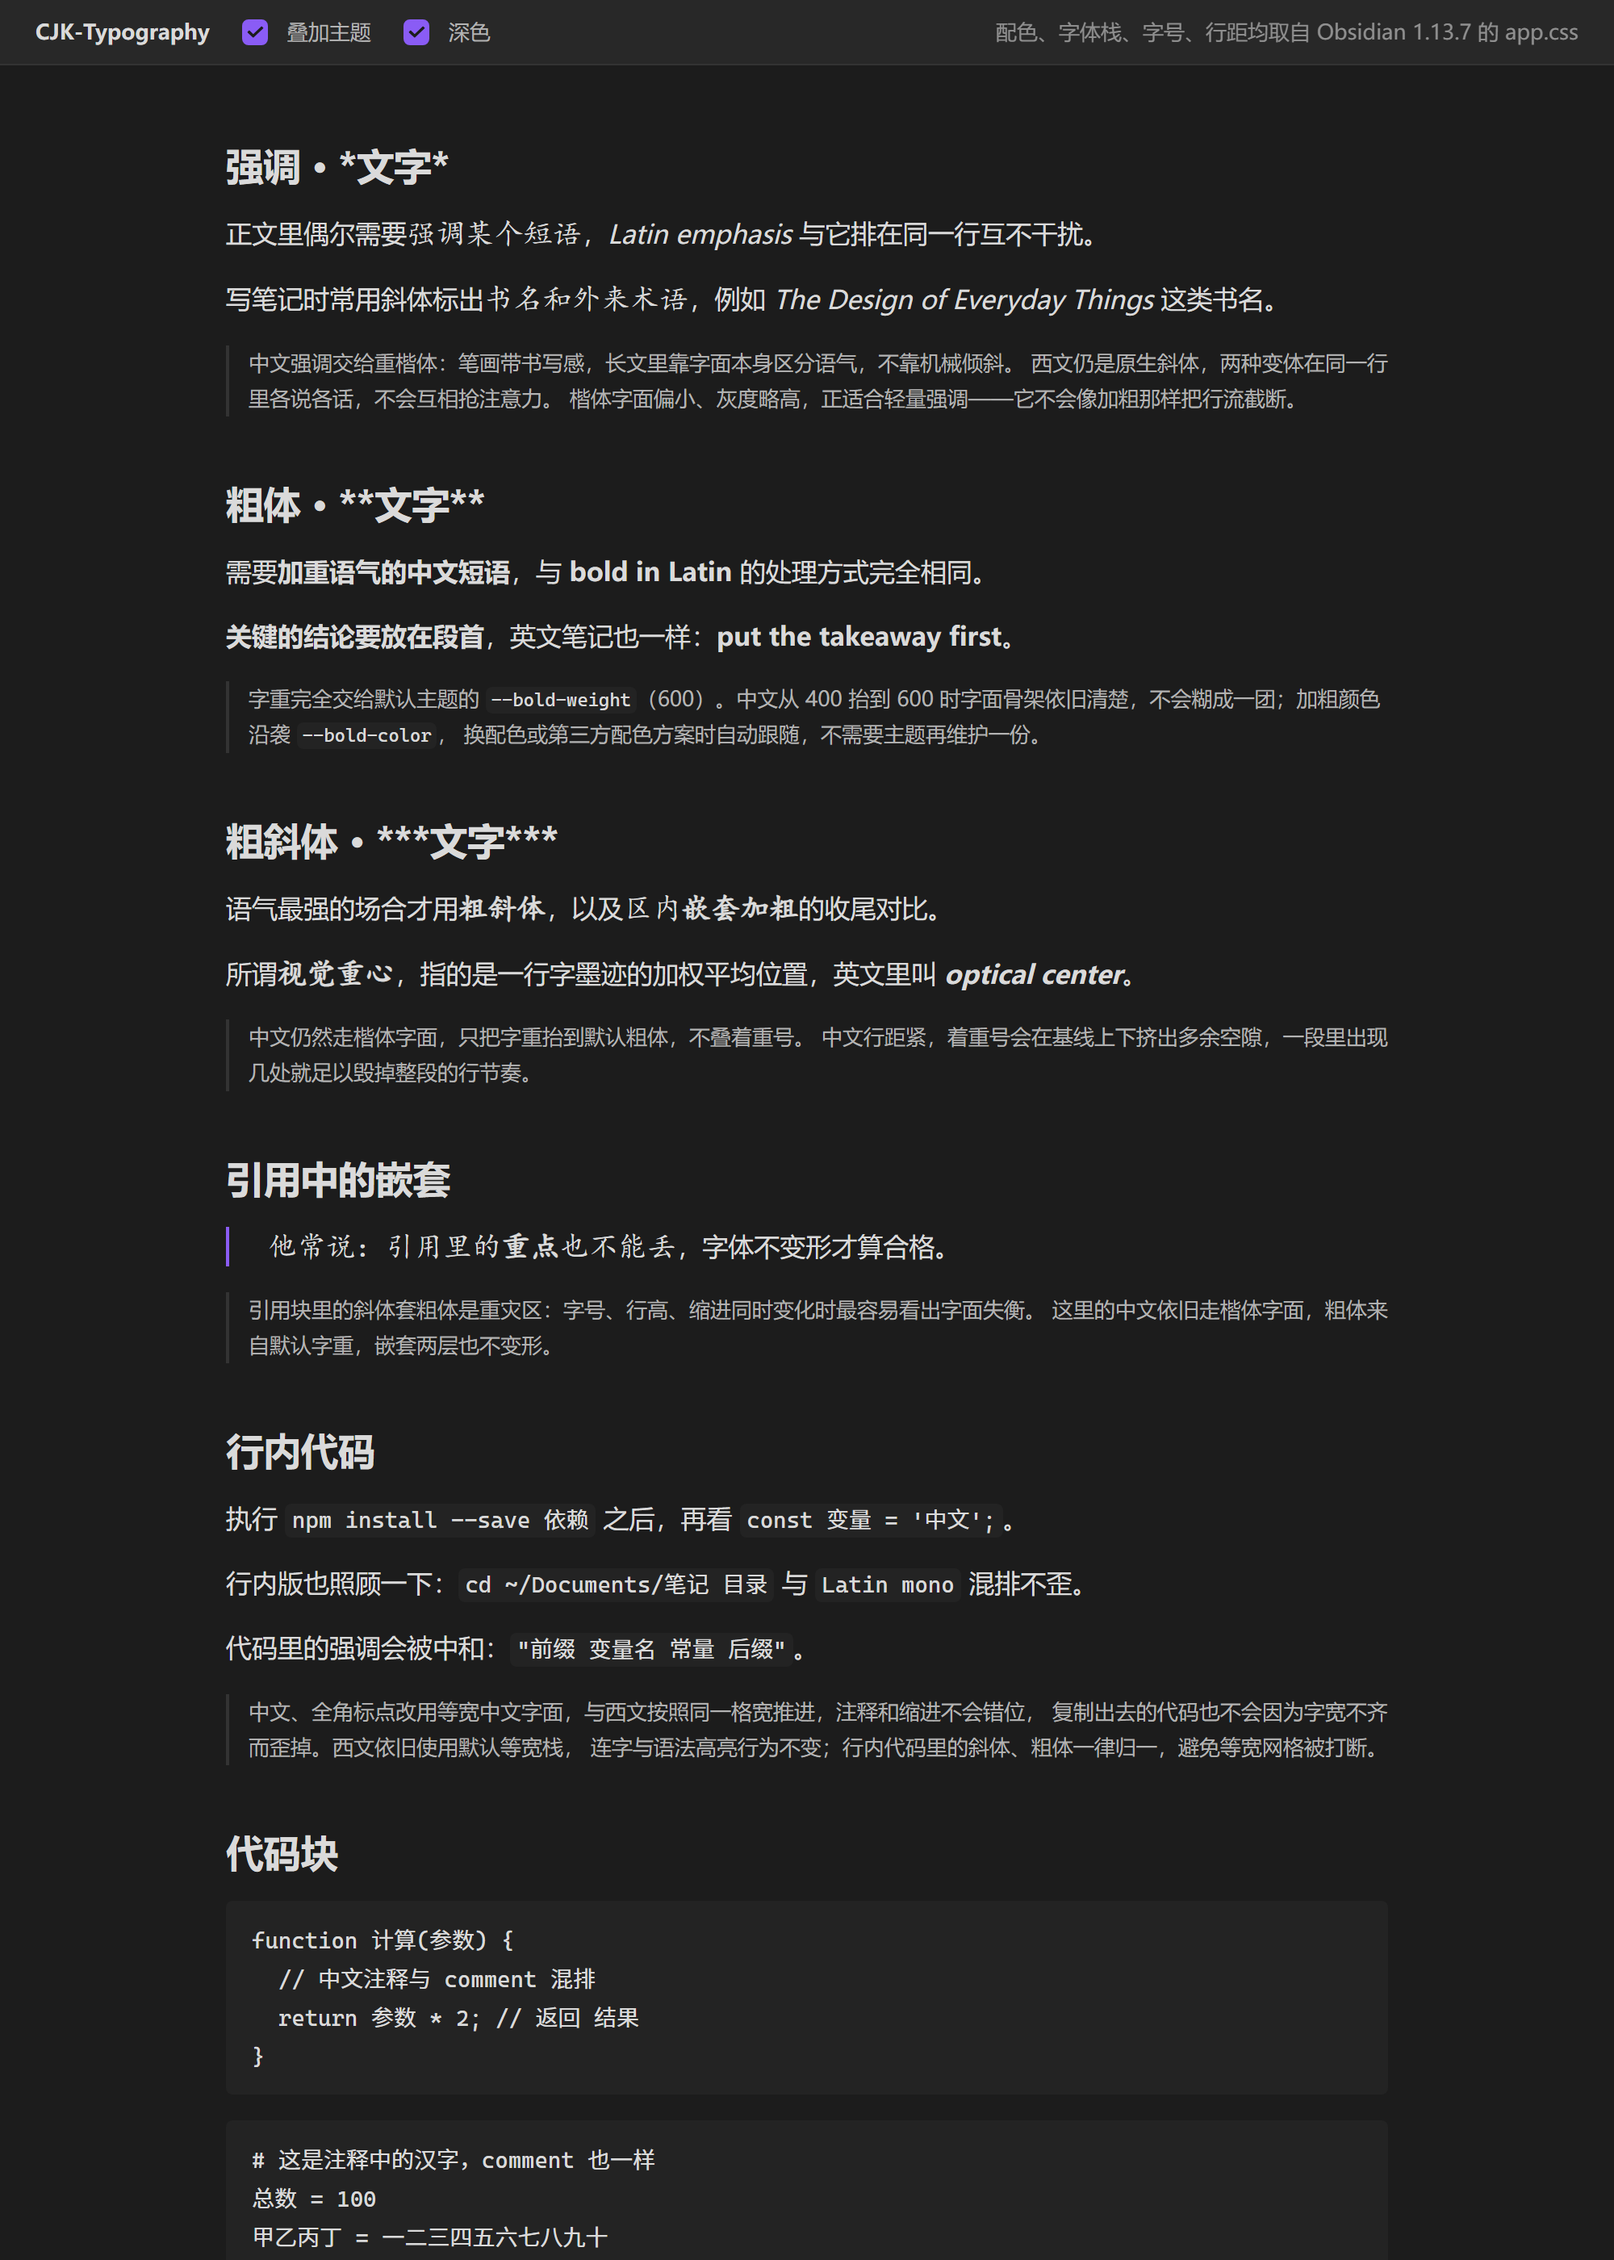
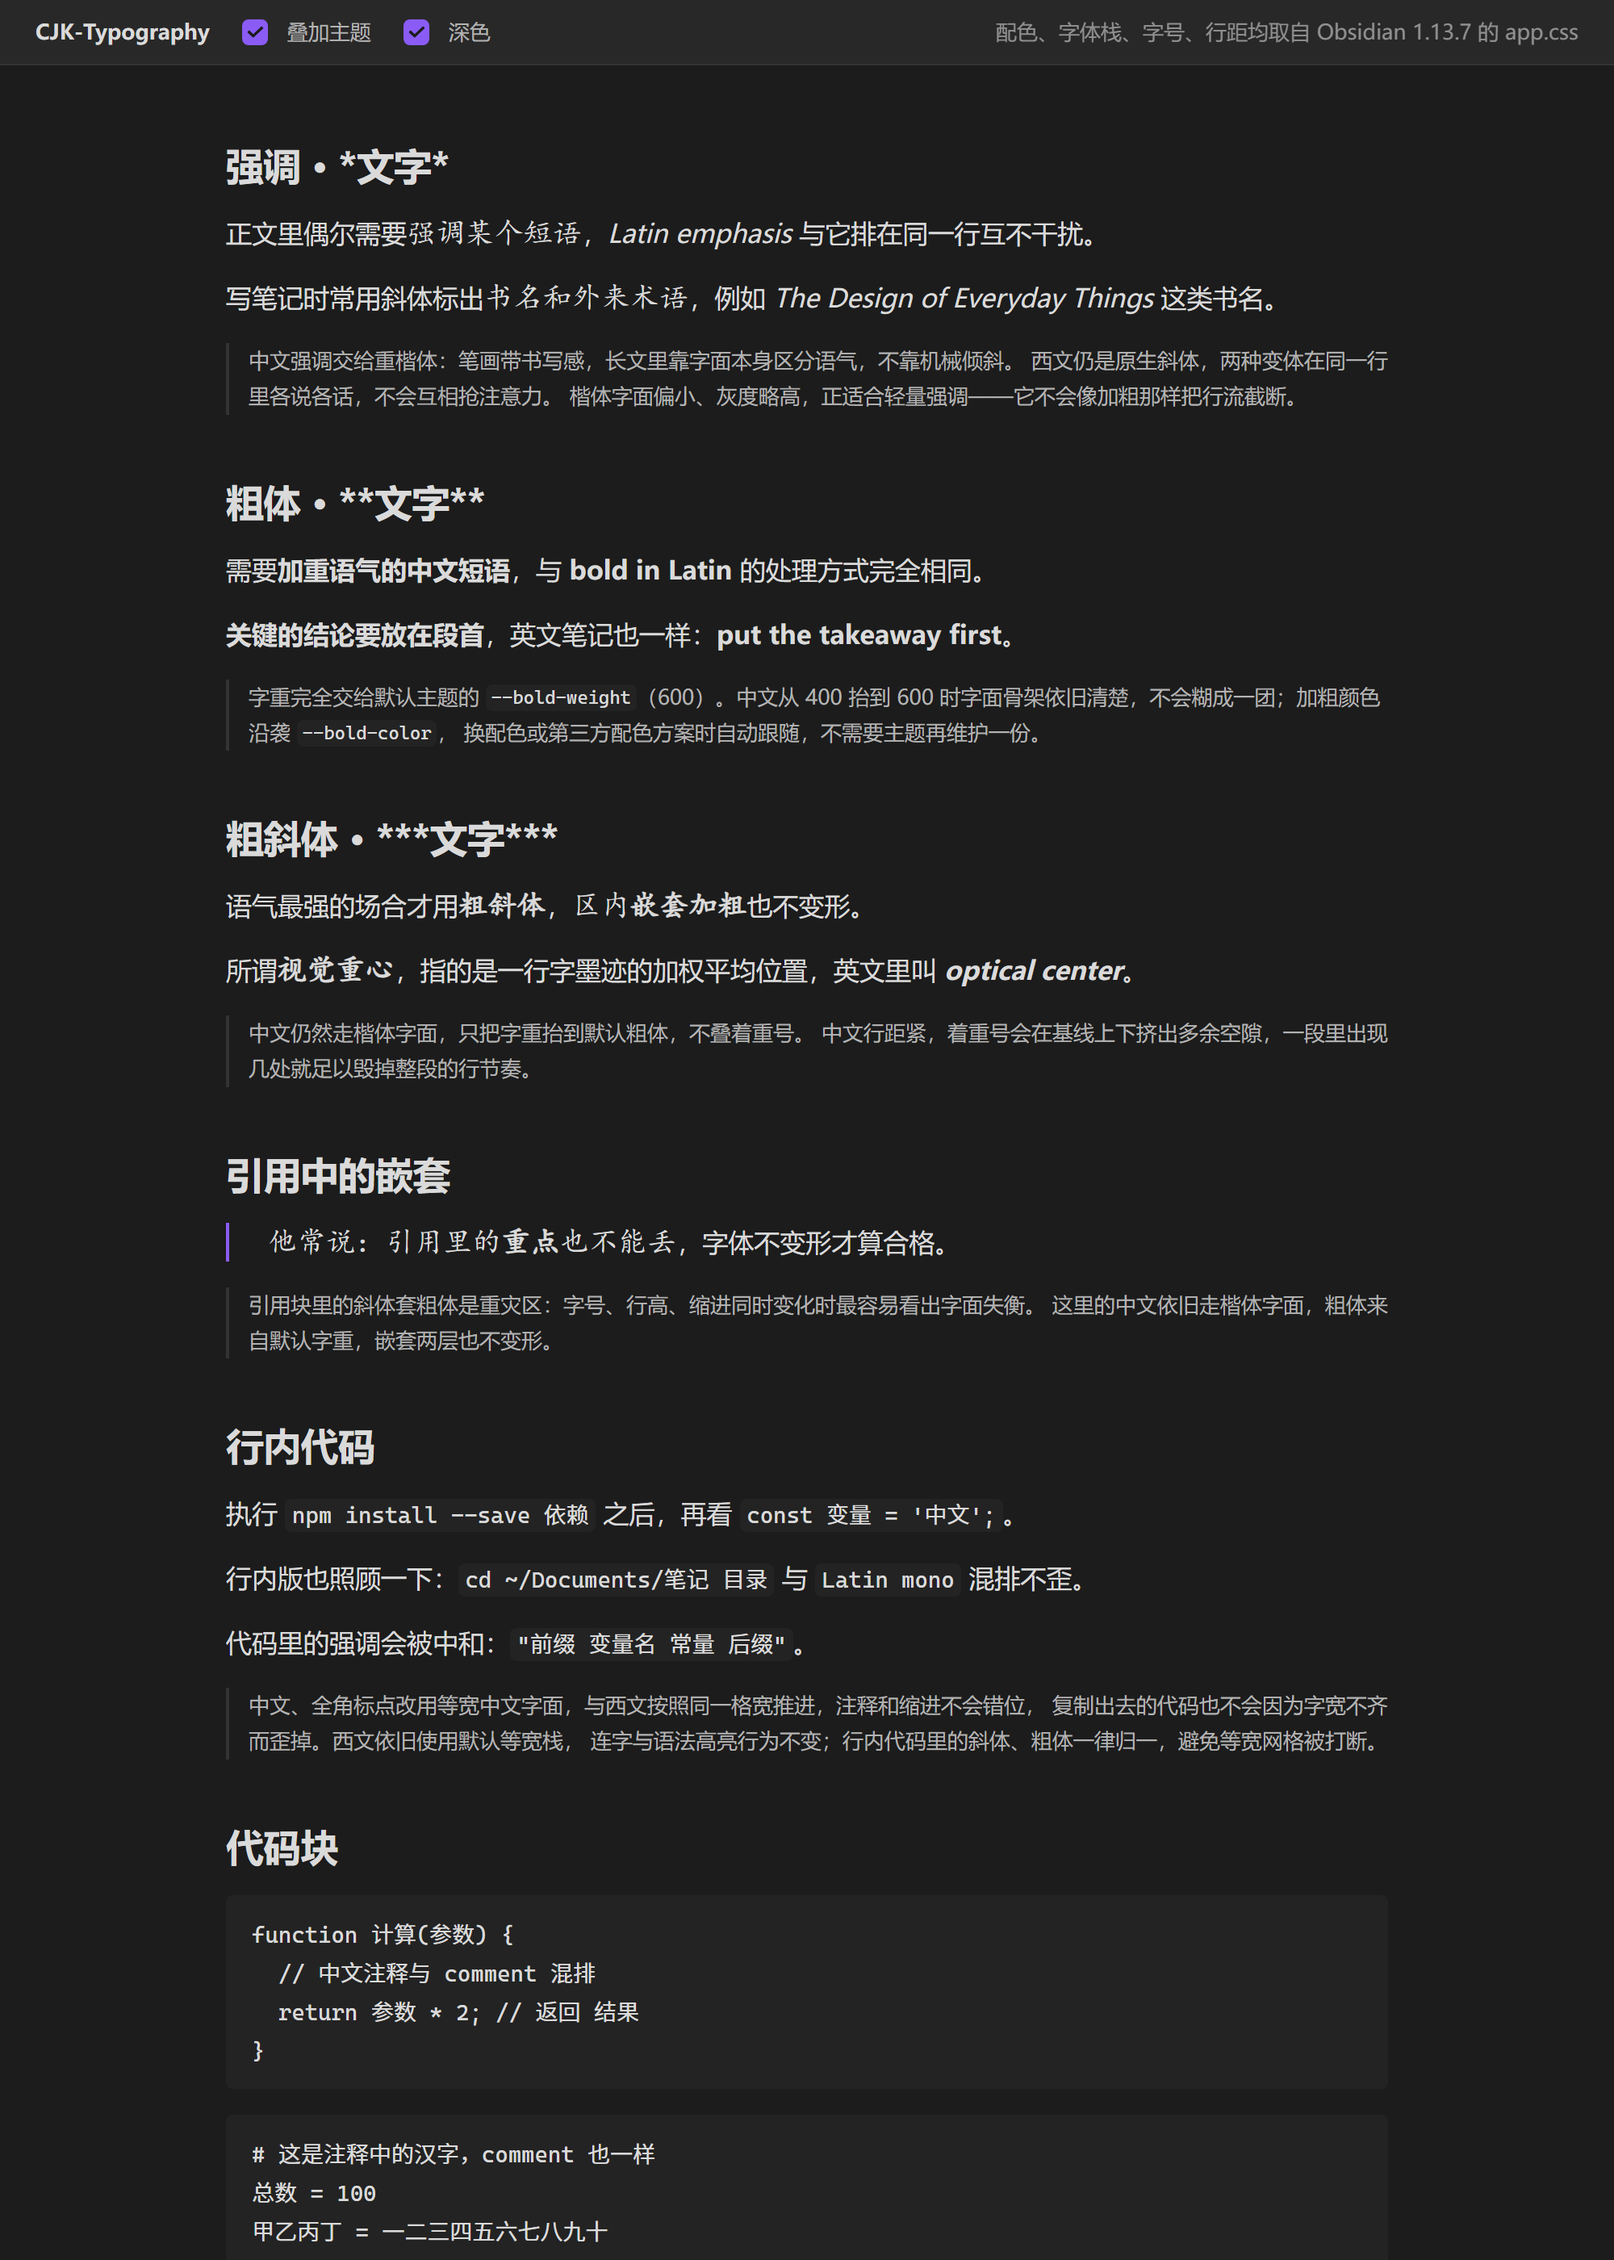
fix: 移除 em 的全局垂直偏移，改按 GB 常用字表实测校准
之前的 vertical-align: -0.04em 是对 16 个样本字过拟合的结果。
用 GB2312 一级字表 3755 字逐字实测（canvas actualBoundingBox）：
字面总高差 -15~+32、重心差 -10.5~0 @100px，逐字方差远大于任何
全局偏移量。移除 vertical-align（归零为最小最坏情况折中），
保留 size-adjust: 113% 对齐平均字面高度；README 补充实测结论。

diff --git a/theme.css b/theme.css
@@ -37,9 +37,9 @@
 em,
 .cm-em {
   font-family: "CJK-Em", var(--font-text);
-  /* 楷体墨迹相对基线偏上（100px 下 asc 86 vs 雅黑 82），整体微降 0.04em
-     对齐正文字面；量级小于行框余量，不会撑大行高。 */
-  vertical-align: -0.04em;
+  /* 不设 vertical-align：GB2312 一级字表 3755 字逐字实测，楷体与雅黑的
+     墨迹重心逐字方差达 ±10px@100px，任何全局偏移都只对部分字有效，
+     归零是最小最坏情况的折中（均值 0.4px、离群字 0.6px @16px）。 */
   /* 只换字体：字重、颜色、italic 仍由默认主题决定 */
 }
 

diff --git a/cjk-typography.css b/cjk-typography.css
@@ -20,8 +20,7 @@
 em,
 .cm-em {
   font-family: "CJK-Em", var(--font-text);
-  /* 楷体墨迹相对基线偏上，整体微降 0.04em 对齐正文字面 */
-  vertical-align: -0.04em;
+  /* 不设 vertical-align：逐字方差太大，全局偏移无意义（见 theme.css 注释） */
   /* 不设置 font-weight、font-style：完全继承 Obsidian 默认的 em 样式 */
 }
 

diff --git a/README.md b/README.md
@@ -86,6 +86,8 @@ Obsidian 的默认粗体规则在版本之间变过：
 
 曾经把文楷系列（LXGW WenKai Screen、霞鹜臻楷等）排在链首，实测发现楷体风格与默认正文的字形对比不够明显，反而稀释了强调的辨识度，于是砍掉，只留楷体。
 
+楷体与雅黑的墨迹度量逐字差异很大（GB2312 一级字表 3755 字逐字实测，字面总高差 −15～+32、重心差 −10.5～0 @100px），因此主题**不做全局垂直偏移**，`size-adjust: 113%` 只负责把平均字面高度对齐（收敛后平均差约 2%）。
+
 **代码（`CJK-Code`）**：Sarasa Mono SC → Noto Sans Mono CJK SC → Maple Mono NF CN → Microsoft YaHei Mono → SimHei
 
 只接管中文，西文刻意留给默认等宽栈（Windows 上是 Consolas）。曾试过让 Sarasa / Noto Sans Mono CJK 这类中西文 1:2 字体整段接管、换取严格的 2:1 对齐，但实测系统自带的西文等宽（Consolas 0.55em、Cascadia 0.586em、Courier New 0.6em，均非 0.5em）意味着不整段接管就凑不出 2:1，而整段接管的西文字形读代码不如 Consolas 舒服——权衡后放弃对齐，保留可读性。
